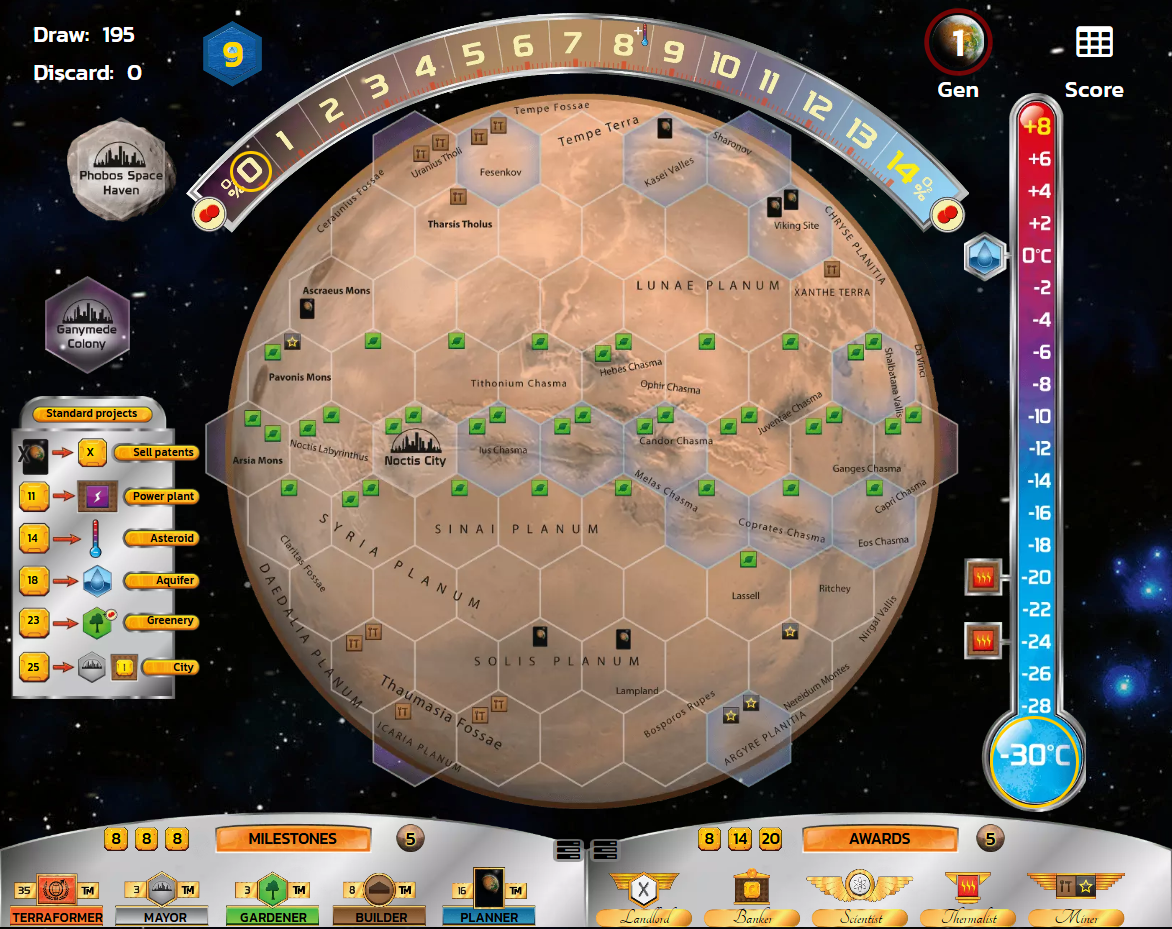
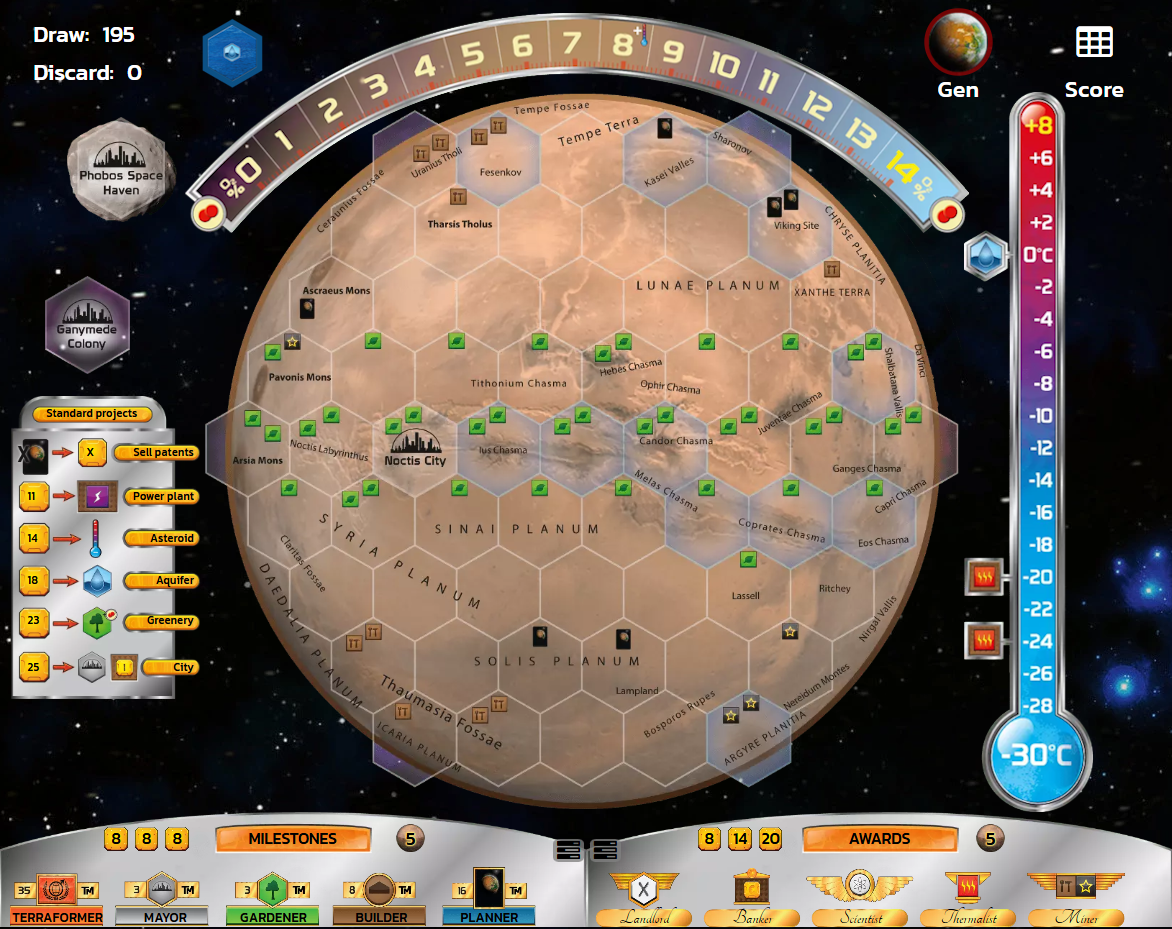
Show Phobos Space Haven and Ganymede Colony on replay map

diff --git a/web/src/components/replay/ReplayMap.tsx b/web/src/components/replay/ReplayMap.tsx
@@ -128,6 +128,52 @@ export function ReplayMap({ mapDefinition, placedTiles, playerColors, currentSte
             </g>
           );
         })}
+        {/* Off-map tiles (Phobos Space Haven, Ganymede Colony) */}
+        {mapDefinition.name === 'Tharsis' && (() => {
+          const offMapLocations: Record<string, { cx: number; cy: number }> = {
+            'Phobos Space Haven': { cx: 119, cy: 168 },
+            'Ganymede Colony': { cx: 87, cy: 326 },
+          };
+          return Object.entries(offMapLocations).map(([name, { cx, cy }]) => {
+            const tile = placedTiles.get(name);
+            if (!tile || tile.moveIndex > currentStep) return null;
+            const color = playerColors[tile.playerId] ?? '#888';
+            const size = tileSize;
+            const cubeSize = tileSize * 0.4;
+            return (
+              <g key={`offmap-${name}`}>
+                <image
+                  href={cityTileImage}
+                  x={cx - size / 2}
+                  y={cy - size / 2}
+                  width={size}
+                  height={size}
+                />
+                {getCubeImage(color) ? (
+                  <image
+                    href={getCubeImage(color)!}
+                    x={cx - cubeSize / 2}
+                    y={cy - cubeSize / 2}
+                    width={cubeSize}
+                    height={cubeSize}
+                  />
+                ) : (
+                  <rect
+                    x={cx - cubeSize / 2}
+                    y={cy - cubeSize / 2}
+                    width={cubeSize}
+                    height={cubeSize}
+                    rx={2}
+                    fill={color}
+                    stroke="#fff"
+                    strokeWidth={1}
+                  />
+                )}
+              </g>
+            );
+          });
+        })()}
+
         {/* Highlight for current move rendered last so it's on top */}
         {mapDefinition.hexes.map(hex => {
           const tile = placedTiles.get(hex.dbKey);

diff --git a/web/src/pages/GameReplayPage.tsx b/web/src/pages/GameReplayPage.tsx
@@ -148,7 +148,13 @@ export function GameReplayPage() {
   const offMapTiles = useMemo(() => {
     if (!mapDefinition) return [] as PlacedTile[];
     const hexKeys = new Set(mapDefinition.hexes.map(h => h.dbKey));
-    return Array.from(placedTiles.values()).filter(t => !hexKeys.has(t.dbKey));
+    // Tiles rendered on the map image (e.g. Phobos/Ganymede on Tharsis) are not "off-map"
+    const renderedOffMap = new Set<string>();
+    if (mapDefinition.name === 'Tharsis') {
+      renderedOffMap.add('Phobos Space Haven');
+      renderedOffMap.add('Ganymede Colony');
+    }
+    return Array.from(placedTiles.values()).filter(t => !hexKeys.has(t.dbKey) && !renderedOffMap.has(t.dbKey));
   }, [placedTiles, mapDefinition]);
 
   const generationBoundaries = useMemo(() => {
